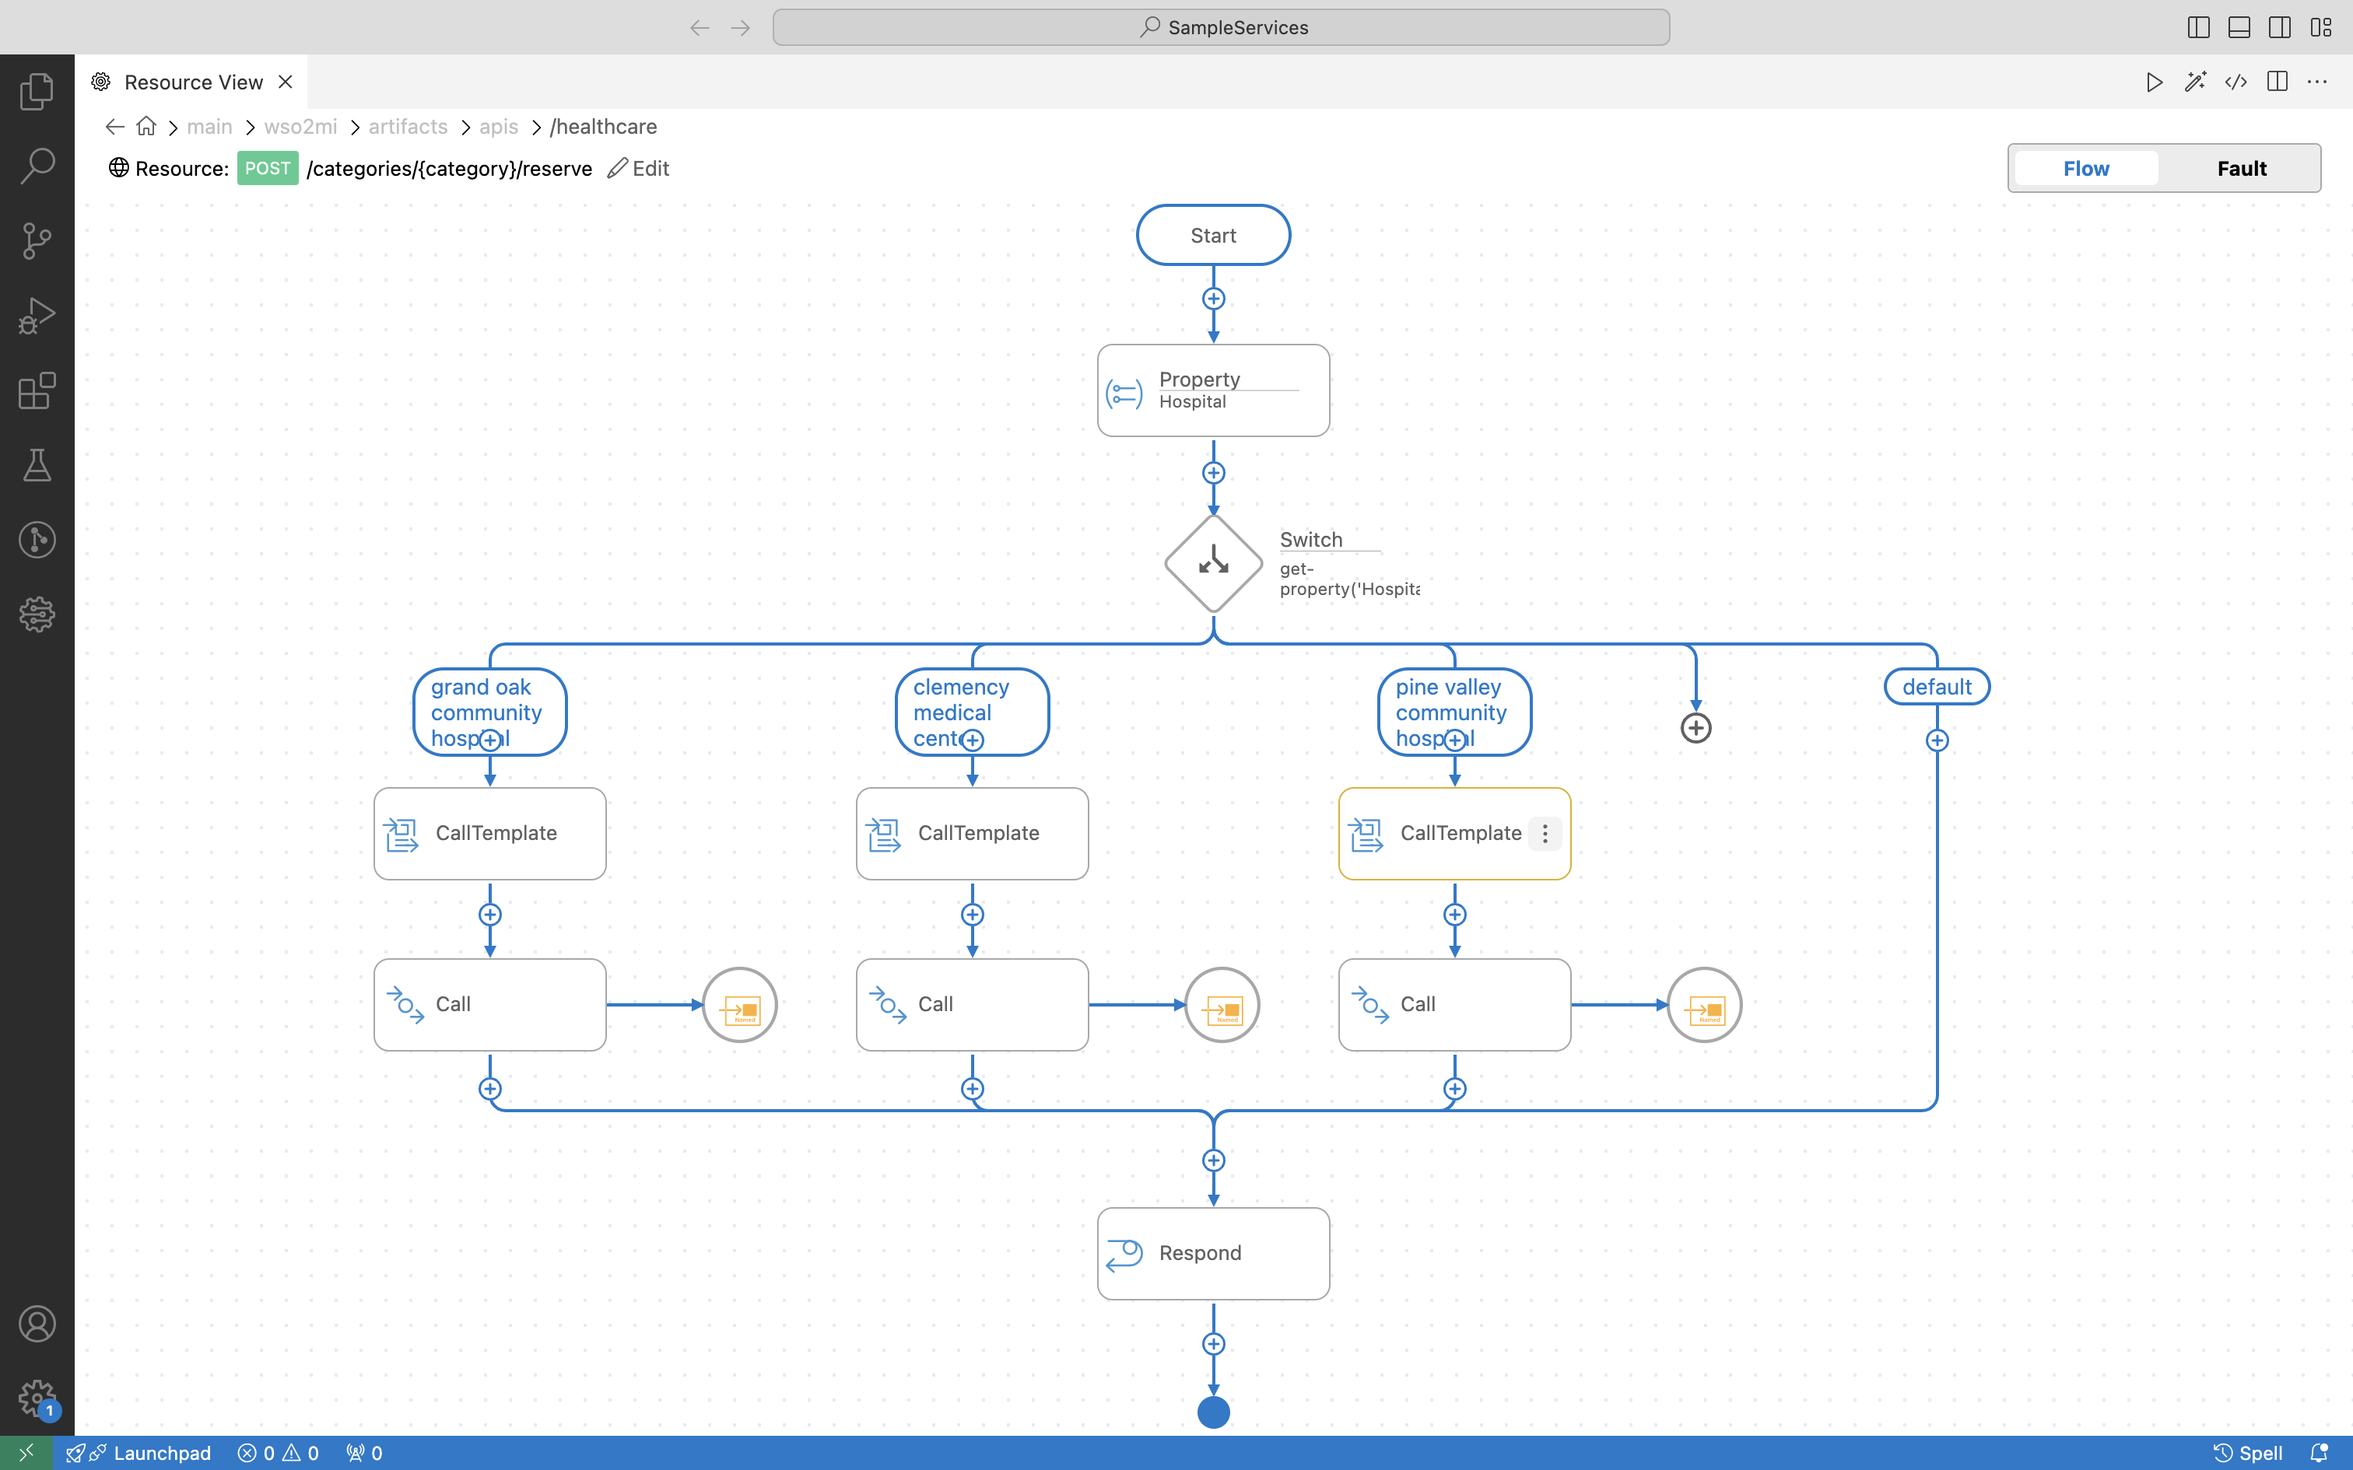
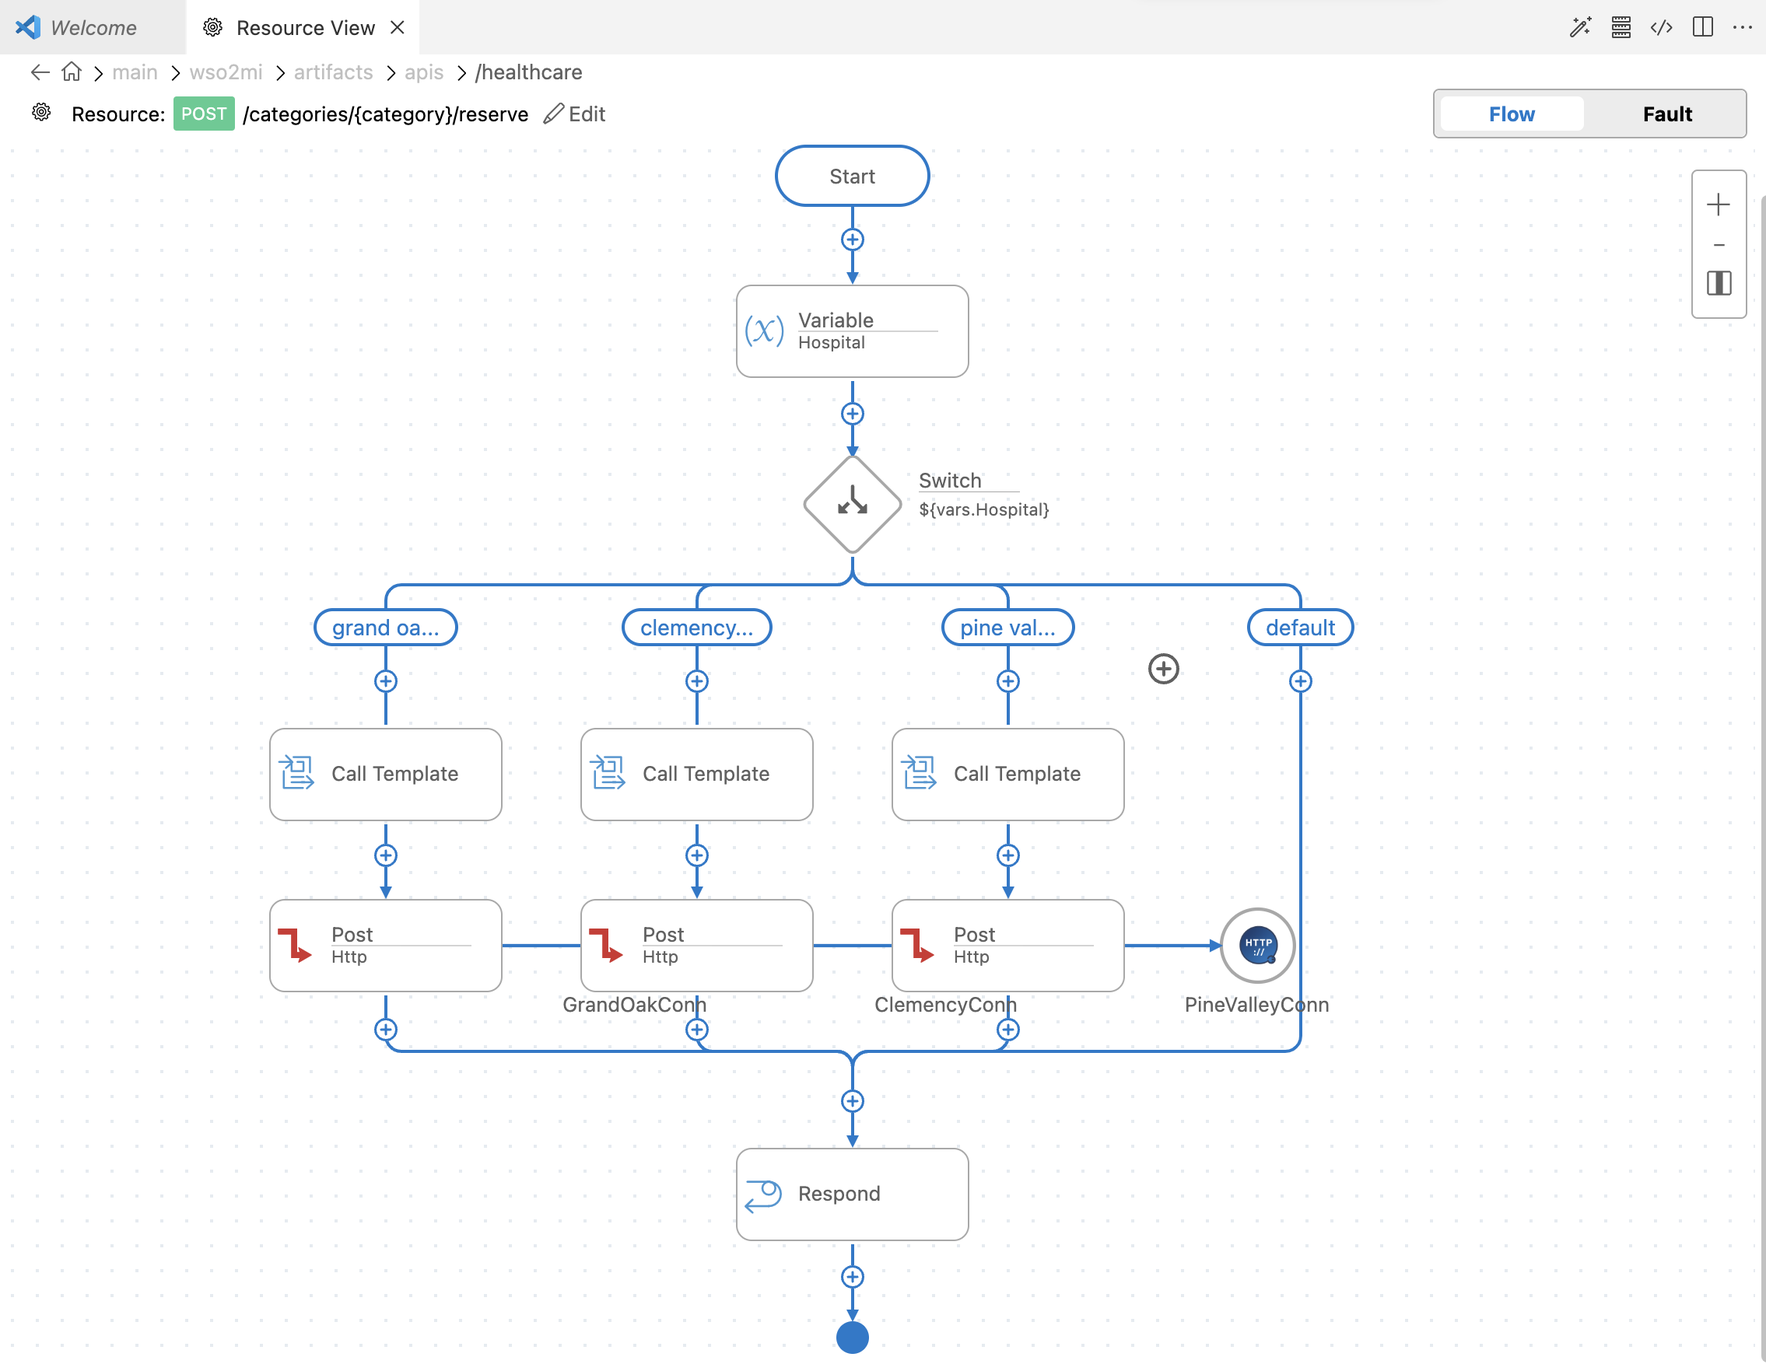
update send email from integration service example

diff --git a/en/docs/learn/integration-tutorials/using-templates.md b/en/docs/learn/integration-tutorials/using-templates.md
@@ -27,14 +27,8 @@ and reuse it in multiple places of the mediation flow.
 
 #### Create a REST API
 
-1. Go to **MI Project Explorer** > **APIs**.
-
-    <a href="{{base_path}}/assets/img/develop/create-artifacts/create-rest-api/create-rest-api.png"><img src="{{base_path}}/assets/img/develop/create-artifacts/create-rest-api/create-rest-api.png" alt="create new api" width="30%"></a>
-
-2. Hover over **APIs** and click the **+** icon that appears to open the **API Form**.
-
-    <a href="{{base_path}}/assets/img/learn/tutorials/add-api.png"><img src="{{base_path}}/assets/img/learn/tutorials/add-api.png" alt="add API" width="30%"></a>
-
+1. Go to **MI Project Overview** > **Add Artifact**.
+2. Select **API** under **Create an Integration**.
 3.  Specify values for the required REST API properties:
 
     <table>
@@ -79,13 +73,7 @@ and reuse it in multiple places of the mediation flow.
         <th>Description</th>
     </tr>
     <tr>
-        <td>URL Style</td>
-        <td>
-            <code>URI_TEMPLATE</code>
-        </td>
-    </tr>
-    <tr>
-        <td>URI Template</td>
+        <td>Resource Path</td>
         <td>
             <code>/categories/{category}/reserve</code>
         </td>
@@ -102,7 +90,7 @@ and reuse it in multiple places of the mediation flow.
 
 8. Click **Update**.
 
-#### Create endpoints
+#### Create HTTP connections
 
 In this tutorial, we have three hospital services hosted as the backend:
 
@@ -110,24 +98,25 @@ In this tutorial, we have three hospital services hosted as the backend:
 -   Clemency Medical Center: `http://localhost:9090/clemency/`
 -   Pine Valley Community Hospital: `http://localhost:9090/pinevalley/`
 
-The request method is `POST` and the format of the request URL expected by the back-end services is as below.
+The request method is `POST` and the format of the request URL expected by the back-end services is as below.
 `http://localhost:9090/grandoaks/categories/{category}/reserve`
 
-Let's create three different HTTP endpoints for the above services.
+Let's create three different HTTP connections for the above services.
 
-1. Navigate to the **MI Project Explorer** > **Endpoints**.
+1. Navigate to the **Project Overview** page.
 
-    <a href="{{base_path}}/assets/img/develop/create-artifacts/create-endpoint/create-new-endpoint.png"><img src="{{base_path}}/assets/img/develop/create-artifacts/create-endpoint/create-new-endpoint.png" alt="create new endpoint" width="30%"></a>
+2. Click on the **Add artifact**.
 
-2. Hover over **Endpoints** and click the **+** icon that appears.
+   <a href="{{base_path}}/assets/img/develop/create-artifacts/add-artifact-icon.png"><img src="{{base_path}}/assets/img/develop/create-artifacts/add-artifact-icon.png" alt="add artifact" width="80%"></a>
 
-    <a href="{{base_path}}/assets/img/learn/tutorials/add-endpoint.png"><img src="{{base_path}}/assets/img/learn/tutorials/add-endpoint.png" alt="Add endpoint" width="30%"></a>
+3. Click **+ View More** under **Create an Integration**.
+4. Select **Connections** under **Other Artifacts** to open the **Connector Store Form**.
 
-3. Next, select **HTTP Endpoint** type from the **Create Endpoint Artifact** interface.
+   <a href="{{base_path}}/assets/img/integrate/connectors/connections-artifact.png"><img src="{{base_path}}/assets/img/integrate/connectors/connections-artifact.png" alt="connections artifact" width="80%"></a>
 
-    <a href="{{base_path}}/assets/img/develop/mi-for-vscode/qsg/create-http-endpoint.png"><img src="{{base_path}}/assets/img/develop/mi-for-vscode/qsg/create-http-endpoint.png" alt="Create HTTP Endpoint" width="80%"></a>
-
-4. In the **HTTP Endpoint Form** that appears, specify the following values to create the new endpoint. 
+5. Select **Http**.
+6. You need to add dependencies to the project, if not added yet.
+7. In the **Add New Connection** form, specify the following values to create the new HTTP connection.
 
     <table>
         <tr>
@@ -136,46 +125,37 @@ Let's create three different HTTP endpoints for the above services.
             <th>Description</th>
         </tr>
         <tr>
-            <td>Endpoint Name </td>
+            <td>Connection Name</td>
             <td>
-                <code>GrandOakEP</code>
+                <code>GrandOakConn</code>
             </td>
             <td>
-                The name of the endpoint represents the Grand Oaks Hospital service.
-            </td>
-        </tr>
-        <tr>
-            <td>URI Template</td>
-            <td>
-                <code>http://localhost:9090/grandoaks/categories/{uri.var.category}/reserve</code>
-            </td>
-            <td>
-                The template for the request URL is expected by the back-end service.
+                The name of the connection represents the Grand Oaks Hospital service.
             </td>
         </tr>
         <tr>
-            <td>Method</td>
+            <td>Base URL</td>
             <td>
-                <code>POST</code>
+                <code>http://localhost:9090/grandoaks</code>
             </td>
             <td>
-                Endpoint HTTP REST Method.
+                The base of the request URL for the back-end service.
             </td>
         </tr>
     </table>
 
 4.  Click **Create**.
 
-5.  Similarly, create the HTTP endpoints for the other two hospital services using the URI Templates given below:
-    -   ClemencyEP: `http://localhost:9090/clemency/categories/{uri.var.category}/reserve`
-    -   PineValleyEP: `http://localhost:9090/pinevalley/categories/{uri.var.category}/reserve`
+5.  Similarly, create the HTTP connections for the other two hospital services using the URI Templates given below:
+    -   ClemencyConn: `http://localhost:9090/clemency`
+    -   PineValleyConn: `http://localhost:9090/pinevalley`
 
 #### Create a sequence template
 
-1. Navigate to the **MI Project Explorer**. Hover over **Templates** and click the **+** icon that appears.
-
-    <a href="{{base_path}}/assets/img/develop/create-artifacts/create-sequence-template/create-sequence-template.png"><img src="{{base_path}}/assets/img/develop/create-artifacts/create-sequence-template/create-sequence-template.png" alt="create new sequence template" width="30%"></a>
-
+1. Navigate to the **Project Overview** page.
+2. Click on the **Add artifact**.
+3. Click **+ View More** under **Create an Integration**.
+4. Select **Template** under **Other Artifacts**.
 2. Next, select the **Sequence Template** from the appeared template artifact menu. 
 
     <a href="{{base_path}}/assets/img/develop/create-artifacts/create-sequence-template/sequence-template-form.png"><img src="{{base_path}}/assets/img/develop/create-artifacts/create-sequence-template/sequence-template-form.png" alt="select sequence template" width="80%"></a>
@@ -228,64 +208,12 @@ Let's create three different HTTP endpoints for the above services.
             <td>`INFO`</td>
         </tr>
         <tr>
-            <td>Log Level</td>
-            <td>`CUSTOM`</td>
-        </tr>
-        <tr>
-            <td>Properties</td>
-            <td>
-                <ol>
-                    <li>Click on **+ Add Parameter**</li>
-                    <li>In the form that appears, specify the following values to add a property</li>
-                        <ul>
-                            <li>**Property Name**: <code>message</code></li>
-                            <li>**Property Value**: Expression <code>fn:concat('Routing to ', get-property('Hospital'))</code></li>
-                        </ul>
-                    <li>Click **Save**</li>
-                </ol>
-            </td>
+            <td>Message</td>
+            <td>Routing to `${params.functionParams.sethospital}`</td>
         </tr>
     </table>
 
-    We select EXPRESSION because the required properties for the log
-    message must be extracted from the request, which we can do using an
-    XPath expression. 
-
-8. Click **Submit**.
-
-9. Add a **Property** mediator by clicking on **+** sign after the **Log** mediator, and selecting the **Property** mediator from the palette. In the form that appears specify the following values. 
-
-    <table>
-        <tr>
-            <th>Property</th>
-            <th>Description</th>
-        </tr>
-        <tr>
-            <td>Property Name</td>
-            <td><code>uri.var.hospital</code></td>
-        </tr>
-        <tr>
-            <td>Property Action</td>
-            <td>Select <code>set</code></td>
-        </tr>
-        <tr>
-            <td>Property Data Type</td>
-            <td>Select <code>STRING</code></td>
-        </tr>
-        <tr>
-            <td>Property Value</td>
-            <td>
-                <ol>
-                    <li>Click **Ex** button</li>
-                    <li>Enter <code>$func:sethospital</code></li>
-                </ol>
-            </td>
-        </tr>
-        <tr>
-            <td>Property Scope</td>
-            <td>Select <code>DEFAULT</code></td>
-        </tr>
-    </table>
+8. Click **Add**.
 
 #### Update the mediation flow
 
@@ -293,7 +221,7 @@ You can now start configuring the API resource.
 
 1. Navigate to **MI Project Explorer** > **APIs** > **HealthcareAPI** > **/categories/{category}/reserve**.
 
-2. Add a **Property** mediator by clicking on the **+** sign in the design view and selecting the **Property** mediator from the palette. This is used to extract the hospital name that is sent in the request payload. In the form that appears, specify the following values. 
+2. Add a **Variable** mediator by clicking on the **+** sign in the design view and selecting the **Variable** mediator from the palette. This is used to extract the hospital name that is sent in the request payload. In the form that appears, specify the following values. 
 
     <table>
         <tr>
@@ -301,20 +229,16 @@ You can now start configuring the API resource.
             <th>Description</th>
         </tr>
       <tr>
-         <td>Property Name</td>
+         <td>Name</td>
          <td>Enter <code>Hospital</code>.</td>
       </tr>
       <tr>
-         <td>Property Action</td>
+         <td>Action</td>
          <td>Select <code>set</code>.</td>
       </tr>
       <tr>
-         <td>Property Data Type</td>
+         <td>Data Type</td>
          <td>Select <code>STRING</code>.</td>
-      </tr>
-      <tr>
-         <td>Property Scope</td>
-         <td>Select <code>DEFAULT</code>.</td>
       </tr>
       <tr>
          <td>Value</td>
@@ -323,16 +247,16 @@ You can now start configuring the API resource.
               <p>Follow the steps given below to specify the expression value:</p>
             <ol>
                 <li>Click the <b>Ex</b> button in the <b>Value</b> field. This specifies the value type as an <i>expression</i>.</li>
-               <li>Enter <code>json-eval($.hospital)</code> as the expression value.</li>
+               <li>Enter <code>payload.hospital</code> as the expression value.</li>
             </ol>
                <b>Note</b>:
-               This is the JSONPath expression that will extract the hospital from the request payload.
+               This is the synapse expression that will extract the hospital from the request payload.
             </div>
          </td>
       </tr>
     </table>
 
-3.  Add a **Switch** mediator by clicking the **+** sign after the **Property** mediator, and selecting **Switch** mediator from the palette. In the form that appears, specify the following values.
+3.  Add a **Switch** mediator by clicking the **+** sign after the **Variable** mediator, and selecting **Switch** mediator from the palette. In the form that appears, specify the following values.
 
     <table>
         <tr>
@@ -340,24 +264,24 @@ You can now start configuring the API resource.
             <th>Description</th>
         </tr>
         <tr>
-            <td>Source XPath</td>
+            <td>Expression</td>
             <td>
-                <p>The <strong>Source XPath</strong> field is where we specify the XPath expression, which obtains the value of the Hospital that we stored in the Property mediator.</p>
+                <p>The <strong>Expression</strong> field is where we specify the synapse expression, which obtains the value of the Hospital that we stored in the Variable mediator.</p>
                 <p>Follow the steps given below to specify the expression:</p>
                 <ol>
                     <li>Click <b>Ex</b> button in the <b>Value</b> field towards the end</li>
-                    <li>Enter <code>get-property('Hospital')</code></li>
+                    <li>Enter <code>vars.Hospital</code></li>
                 </ol>
             </td>
         </tr>
         <tr>
-            <td>Case Branches</td>
+            <td>Cases</td>
             <td>
-                <p>You can use <b>+ Add Parameter</b> button to add case branches</p>
+                <p>You can use <b>+ Add new case</b> button to add case branches</p>
                 <ol>
-                    <li>Case 1: Click on <b>+ Add Parameter</b> and specify <b>Case Regex</b> as <code>grand oak community hospital</code></li>
-                    <li>Case 2: Click on <b>+ Add Parameter</b> and specify <b>Case Regex</b> as <code>clemency medical center</code></li>
-                    <li>Case 3: Click on <b>+ Add Parameter</b> and specify <b>Case Regex</b> as <code>pine valley community hospital</code></li>
+                    <li>Case 1: Click on <b>+ Add new case</b> and specify <b>Case Regex</b> as <code>grand oak community hospital</code></li>
+                    <li>Case 2: Click on <b>+ Add new case</b> and specify <b>Case Regex</b> as <code>clemency medical center</code></li>
+                    <li>Case 3: Click on <b>+ Add new case</b> and specify <b>Case Regex</b> as <code>pine valley community hospital</code></li>
                 </ol>
             </td>
         </tr>
@@ -406,24 +330,47 @@ You can now start configuring the API resource.
         </tr>
     </table>
 
-5. Add a **Call Endpoint** mediator to each case branch by clicking the **+** sign after the **Call Template** mediator in each case branch, and selecting **Call Endpoint** mediator from the palette. In the form that appears, specify the following values.
+5. Add an HTTP **POST** operation by clicking the **+** sign after the **Call Template** mediator in each case branch. In the form that appears, specify the following values.
 
     <table>
-        <tr>
-            <th></th>
-            <th>Case 1</th>
-            <th>Case 2</th>
-            <th>Case 3</th>
-        </tr>
-        <tr>
-            <td>Select Endpoint</td>
-            <td>Select <code>GrandOakEP</code></td>
-            <td>Select <code>ClemencyEP</code></td>
-            <td>Select <code>PineValleyEP</code></td>
-        </tr>
+        <thead>
+            <tr>
+                <th></th>
+                <th>Case 1</th>
+                <th>Case 2</th>
+                <th>Case 3</th>
+            </tr>
+        </thead>
+        <tbody>
+            <tr>
+                <td>Connection</td>
+                <td><code>GrandOakConn</code></td>
+                <td><code>ClemencyConn</code></td>
+                <td><code>PineValleyConn</code></td>
+            </tr>
+            <tr>
+                <td>Relative Path</td>
+                <td>Enter <code>/categories/\${params.uriParams.category}/reserve</code></td>
+                <td>Enter <code>/categories/\${params.uriParams.category}/reserve</code></td>
+                <td>Enter <code>/categories/\${params.uriParams.category}/reserve</code></td>
+            </tr>
+            <tr>
+                <td>Content Type</td>
+                <td>Select <code>JSON</code></td>
+                <td>Select <code>JSON</code></td>
+                <td>Select <code>JSON</code></td>
+            </tr>
+            <tr>
+                <td>Request Body</td>
+                <td>Enter <code>\${payload}</code></td>
+                <td>Enter <code>\${payload}</code></td>
+                <td>Enter <code>\${payload}</code></td>
+            </tr>
+        </tbody>
     </table>
 
-6. Add a **Respond** mediator by clicking the **+** sign after the **Switch** mediator, and selecting the **Respond** mediator from the palette. It will return the response from the health care service back to the client.
+
+6. Add a **Respond** mediator by clicking the **+** sign after the **Switch** mediator. It will return the response from the health care service back to the client.
 
 <a href="{{base_path}}/assets/img/integrate/tutorials/using-templates/design-view.png"><img src="{{base_path}}/assets/img/integrate/tutorials/using-templates/design-view.png" alt="Complete design view" width="80%"></a>
 
